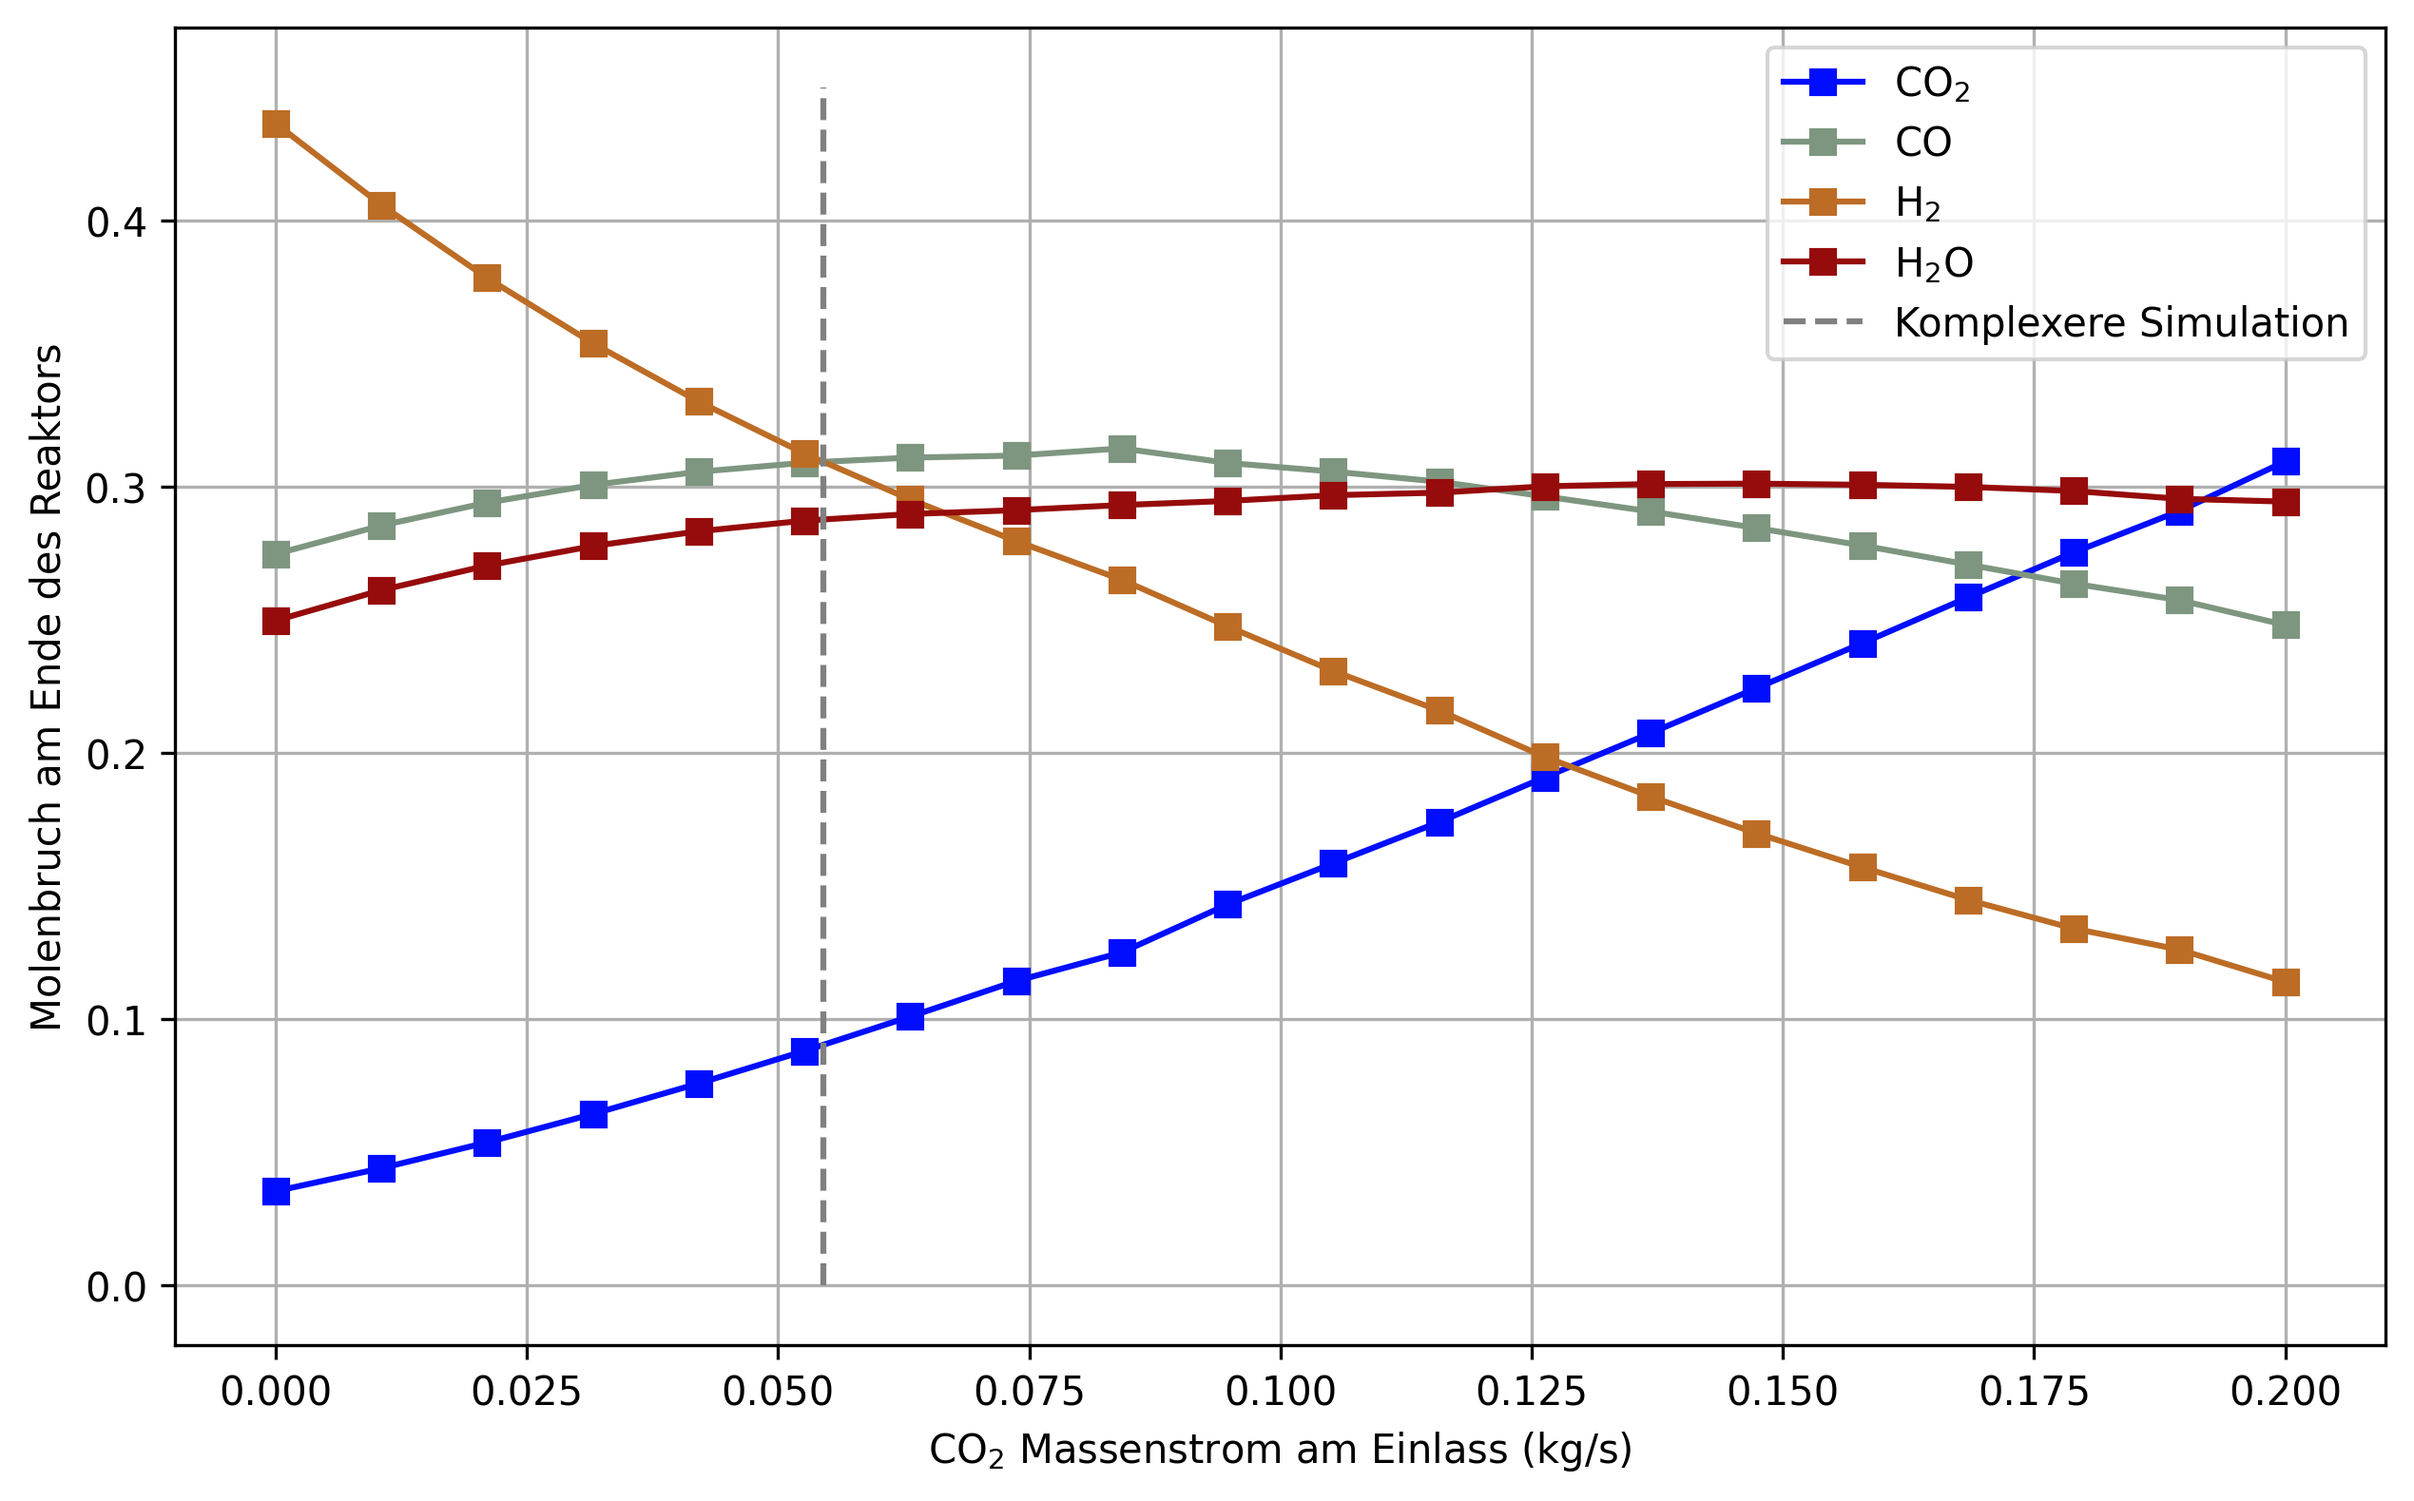
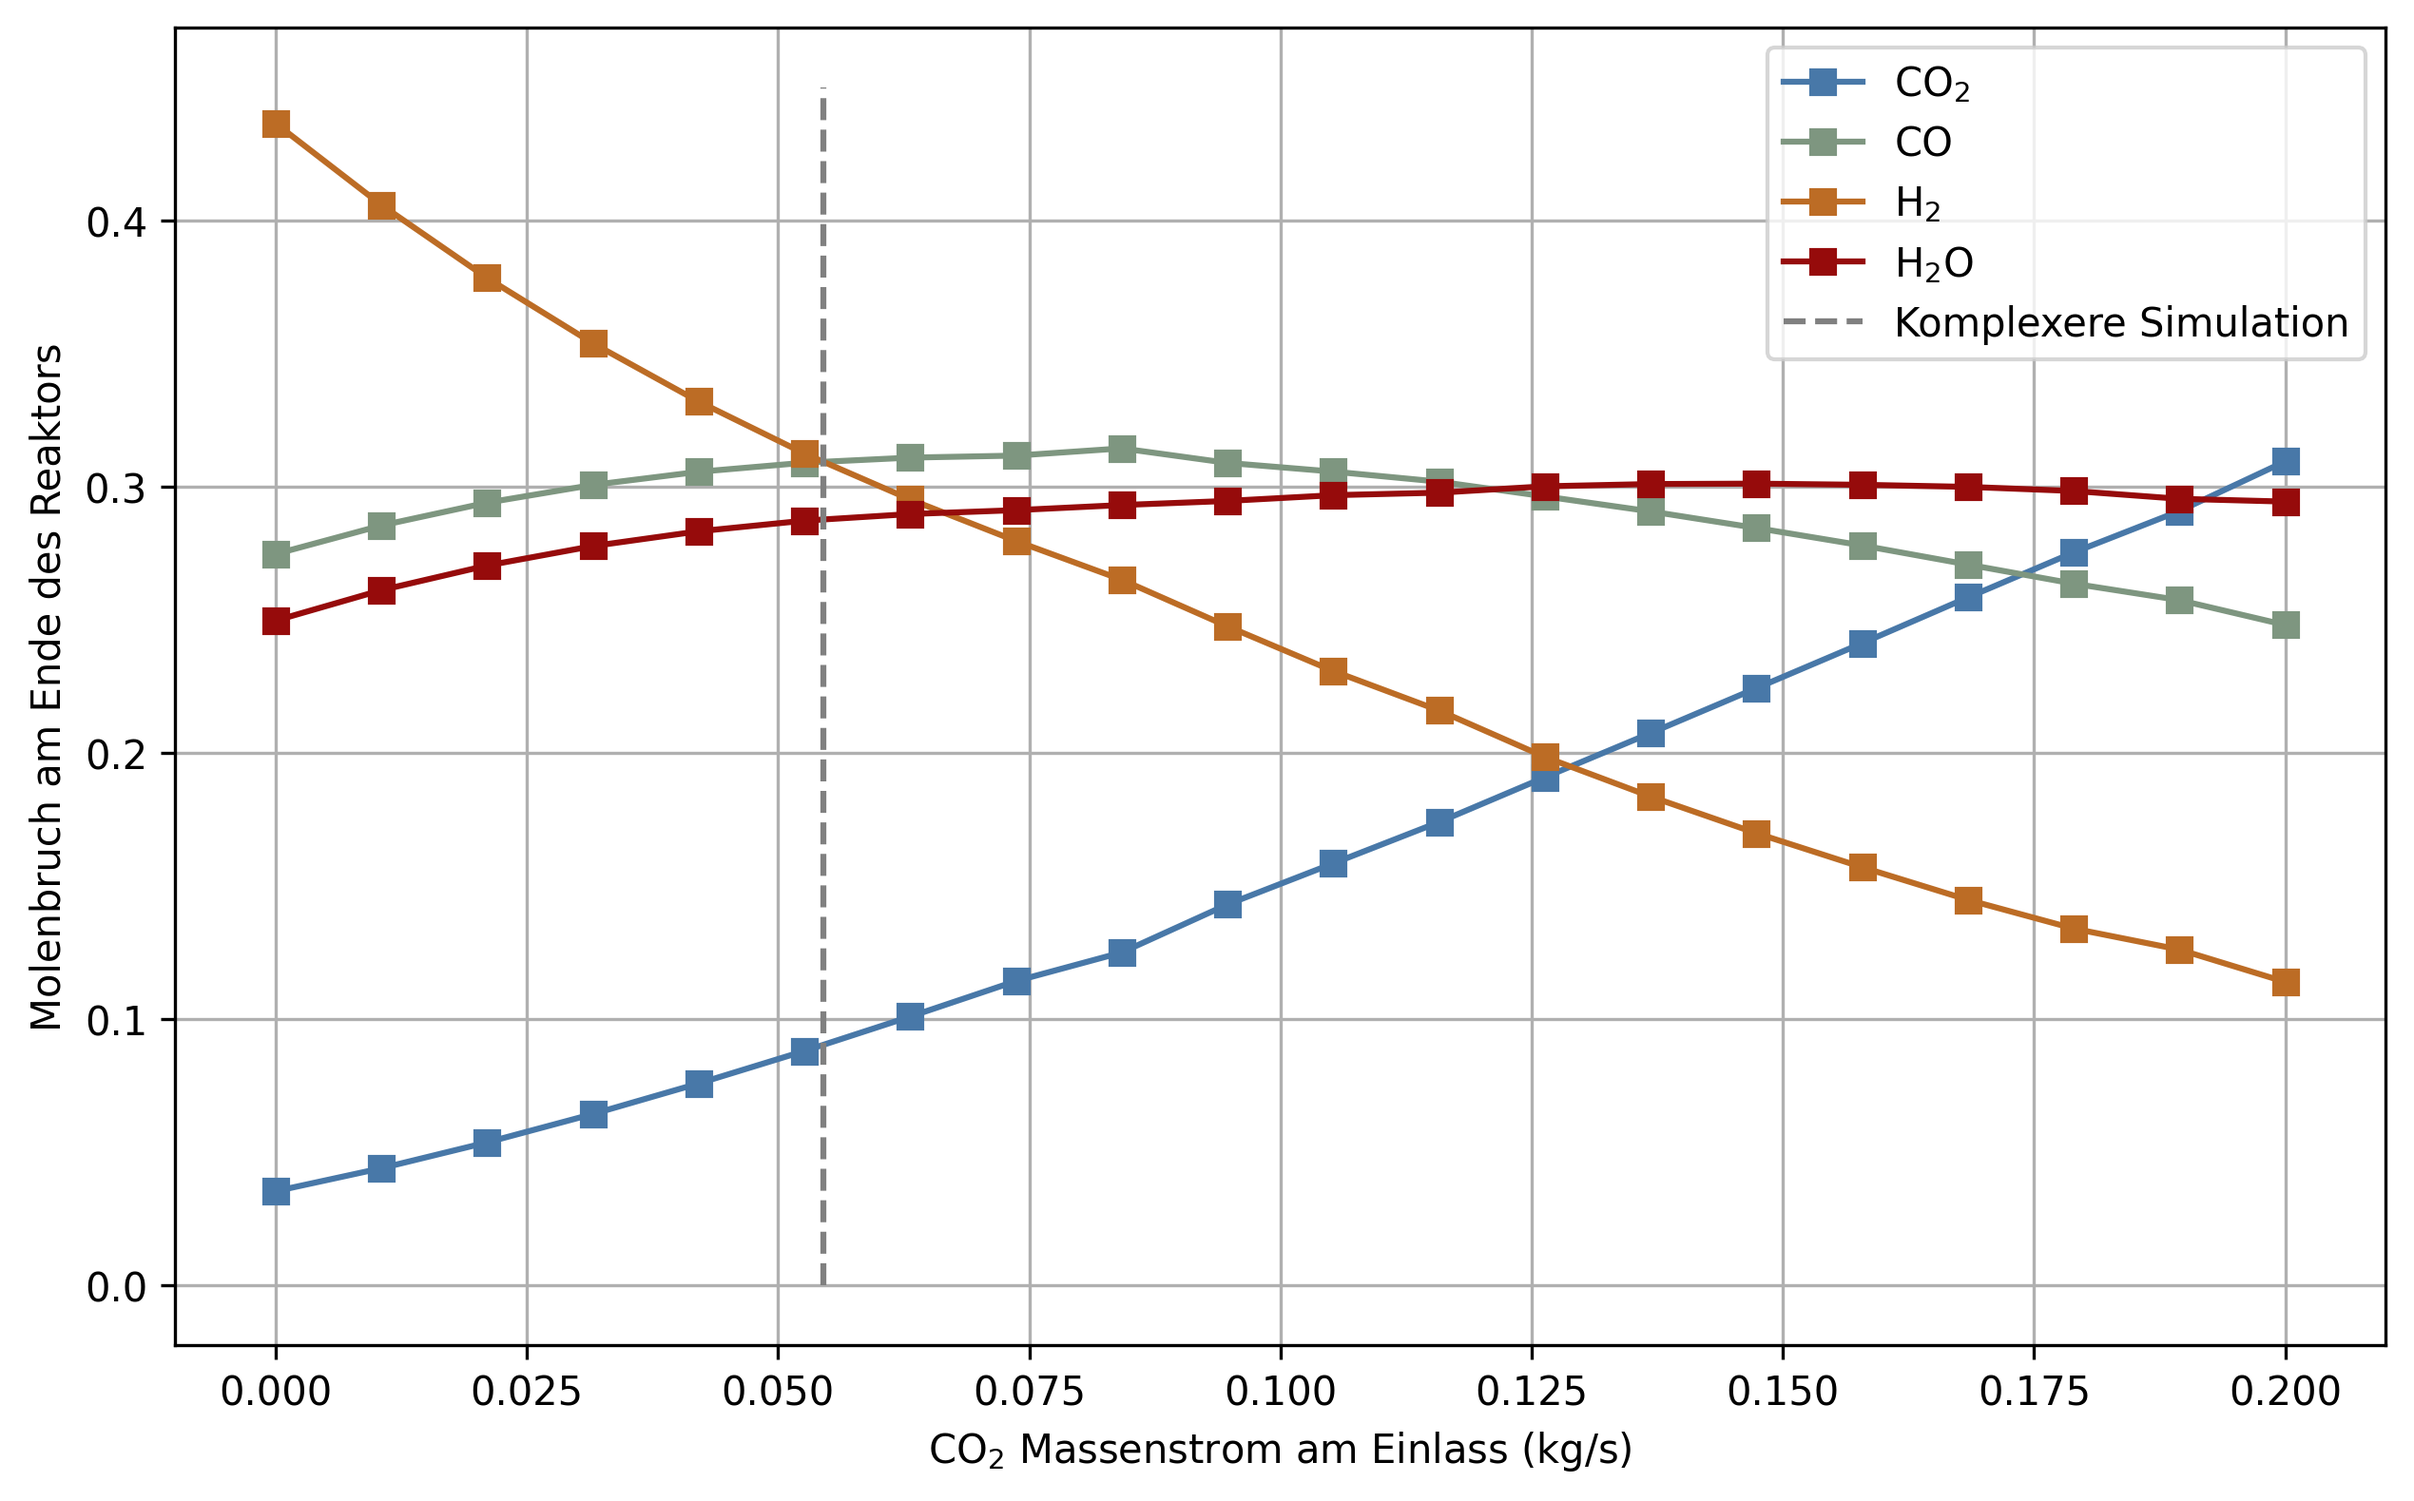
3D Plot (untauglich)

diff --git a/Scripts/Auswertungen/Parameterstudie CO2/complex_plots.py b/Scripts/Auswertungen/Parameterstudie CO2/complex_plots.py
@@ -1,0 +1,56 @@
+import matplotlib.pyplot as plt
+from mpl_toolkits.mplot3d import Axes3D  # nötig für 3D-Plots
+import re
+import numpy as np
+
+
+
+def plot_runs_3d_simple(dfs, cmap='plasma', s=20, run_step=1, point_step=1):
+    """
+    3D-Plot aller Runs:
+      x = Distance, y = Run-Nummer, z = Temperature, Farbe = z-Wert (global skaliert).
+    """
+    fig = plt.figure()
+    ax = fig.add_subplot(111, projection='3d')
+
+    # 🔸 1. Globale Farbskala bestimmen
+    all_z = []
+    for df in dfs[::run_step]:
+        zcol = next(c for c in df.columns if re.search('temperature', c, re.IGNORECASE))
+        all_z.append(df[zcol].iloc[::point_step].to_numpy())
+    all_z = np.concatenate(all_z)
+    vmin, vmax = np.nanmin(all_z), np.nanmax(all_z)
+    norm = plt.Normalize(vmin=vmin, vmax=vmax)
+
+    # 🔸 2. Plotten
+    for i, df in enumerate(dfs[::run_step], start=1):
+        xcol = next(c for c in df.columns if re.search('distance', c, re.IGNORECASE))
+        zcol = next(c for c in df.columns if re.search('temperature', c, re.IGNORECASE))
+        df_reduced = df.iloc[::point_step, :]
+
+        x = df_reduced[xcol].to_numpy()
+        z = df_reduced[zcol].to_numpy()
+        y = np.full_like(x, i * run_step)
+
+        # nach z sortieren für saubere Sichttiefe
+        order = np.argsort(z)
+
+        # global normierte Farbskala verwenden
+        ax.scatter(x[order], y[order], z[order],
+                   c=z[order], cmap=cmap, norm=norm,
+                   s=s, alpha=0.7, edgecolors='none')
+    # 🔸 3. Achsen & Layout
+    ax.set_xlabel('Distance (m)')
+    ax.set_ylabel('Run')
+    ax.set_zlabel('Temperature (K)')
+    ax.set_box_aspect([1, 1, 1])
+    ax.view_init(elev=22, azim=135)
+    ax.set_proj_type('ortho')
+
+    # 🔸 4. Gemeinsame Farbskala
+    cbar = plt.colorbar(plt.cm.ScalarMappable(norm=norm, cmap=cmap), ax=ax)
+    cbar.set_label('Temperature (K)')
+
+    plt.tight_layout()
+    plt.show()
+

diff --git a/Scripts/Auswertungen/Parameterstudie CO2/Auswertung_CO2.py b/Scripts/Auswertungen/Parameterstudie CO2/Auswertung_CO2.py
@@ -17,7 +17,6 @@ import sys
 sys.path.append(os.path.abspath(os.path.join(os.path.dirname(__file__), '../utils')))
 
 from colors import colors_new
-print(colors_new)
 
 color1 = '#4878A8'
 color2 = '#7E9680'
@@ -204,3 +203,18 @@ plt.tight_layout()
 
 # --- aber beim Speichern:
 fig.savefig("Bilder/plots_mit_legende.png", bbox_inches='tight', bbox_extra_artists=(leg,))
+
+#%% 3D Plot
+from complex_plots import *
+import re
+
+# Farbverlauf Rot Gelb Blau
+from matplotlib.colors import LinearSegmentedColormap
+
+# Verlauf: Rot → Gelb → Blau
+cmap_red_yellow_blue = LinearSegmentedColormap.from_list(
+    "red_yellow_blue",
+    ["blue", "#B9B100", "red"]
+)
+
+plot_runs_3d_simple(list(dfs_by_run.values())[1:], cmap=cmap_red_yellow_blue, point_step=5, run_step=1)

diff --git a/Scripts/Auswertungen/Vergleich_ChemistrySet/Auswertung_neu.py b/Scripts/Auswertungen/Vergleich_ChemistrySet/Auswertung_neu.py
@@ -10,6 +10,7 @@ from collections import OrderedDict
 
 
 from Latex_table import df_to_table
+from complex_plots import *
 
 #%% Farben für die Plots definieren
 import sys
@@ -535,6 +536,7 @@ df_to_table(df_mse_noCO2,
             latex = True,
             filepath = "Tabellen/Tabelle_MSE_noCO2.tex",
             decimal_sep = "," )
+
 #%% Kopieren zu LaTeX 
 # Relativer Quell- und Zielpfad
 src_folder = "img"
